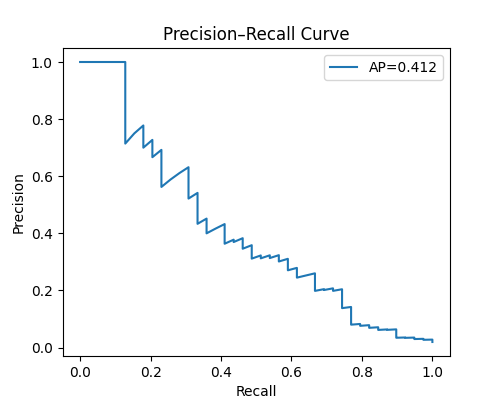
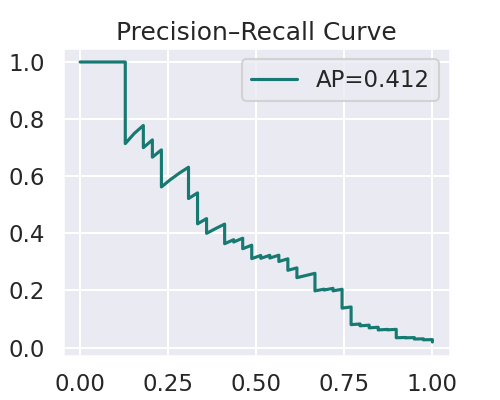
only readme file left may add additional features later

diff --git a/main.py b/main.py
@@ -1,6 +1,7 @@
 from sklearn.linear_model import LogisticRegression
+from sklearn.model_selection import RandomizedSearchCV
 from sklearn.preprocessing import StandardScaler
-from sklearn.metrics import roc_curve, roc_auc_score, precision_recall_curve, average_precision_score
+from sklearn.metrics import roc_curve, roc_auc_score, precision_recall_curve, average_precision_score,confusion_matrix , ConfusionMatrixDisplay
 from sklearn.pipeline import Pipeline
 import pandas as pd
 import numpy as np
@@ -8,7 +9,12 @@ import matplotlib.pyplot as plt
 import seaborn as sns 
 import os
 import auto_logger
+import gc
 
+sns.set_theme(
+    context="talk",   # larger fonts without shouting
+    palette="crest_r"
+)
 
 if __name__ == '__main__':
     auto_logger.setup_logging('main.py')
@@ -18,7 +24,7 @@ try:
 except:
     pass
 
-class LogisticCassifier:
+class LogisticClassifier:
     def __init__(self):
         self.y = None
         self.x = None
@@ -47,62 +53,153 @@ class LogisticCassifier:
         self.X_test  = self.X.iloc[idx:]
         self.y_test  = self.y.iloc[idx:]
 
-        print(*self.X.columns, sep='\n')
+        
     def train_run(self):
-        pipe = Pipeline(
-            steps=[
-                    ("scaler", StandardScaler()),
-                    ("clf", LogisticRegression(
-                        class_weight="balanced",
-                        solver="liblinear",
-                        max_iter=1000
-                        ))
-                    ]
-                )
-        pipe.fit(self.X_train,self.y_train)
-        self.y_pred = pipe.predict(self.X_test)
-        self.y_prob = pipe.predict_proba(self.X_test)[:, 1]
-        roc = roc_auc_score(self.y_test, self.y_prob)
-        print("ROC-AUC Score:", roc)
-        self.plot(self.y,self.y_pred,roc)
-    def plot(self,y,y_pred,roc):
-        #ROC-AUC Plot
+        pipe = Pipeline([
+            ("scaler", StandardScaler()),
+            ("clf", LogisticRegression(
+                solver="lbfgs",
+                class_weight="balanced",
+                max_iter=3000
+            ))
+        ])
+
+        param_dist = {
+             "clf__C": np.logspace(-3, 2, 50)
+        }
+        search = RandomizedSearchCV(
+            pipe,
+            param_distributions=param_dist,
+            n_iter=50,
+            scoring="roc_auc",
+            cv=5,
+            random_state=42,
+            n_jobs=-1,
+            verbose = 1,
+            error_score='raise'
+        )
+        search.fit(self.X_train,self.y_train)
+        self.y_prob = search.predict_proba(self.X_test)[:, 1]
+        self.roc = roc_auc_score(self.y_test, self.y_prob)
+        self.plot(self.roc)
+    def plot(self,roc):
+        
+        palette = sns.color_palette("crest", 10)
+
+        # Dashboard layout
+        layout = [["confusion", "roc"],
+                ["prc", "kde"]]
+
+        fig, axes = plt.subplot_mosaic(layout, figsize=(12, 10))
+
+        #ROC AUC plot
         fpr, tpr, _ = roc_curve(self.y_test, self.y_prob)
 
-        plt.figure(figsize=(5,5))
-        plt.plot(fpr, tpr, label=f"ROC (AUC={roc:.3f})")
-        plt.plot([0,1],[0,1],'--',color='gray')
-        plt.xlabel("False Positive Rate")
-        plt.ylabel("True Positive Rate")
-        plt.legend()
-        plt.title("ROC Curve – Time-Aware Validation")
-        plt.savefig(f'images/ROC-AUC_{self.filename}.png')
-        plt.show()
-        
-        #Risk Score Distribution
-        plt.figure(figsize=(6,4))
-        sns.kdeplot(self.y_prob[self.y_test == 0], label="No Fault", fill=True)
-        sns.kdeplot(self.y_prob[self.y_test == 1], label="Fault", fill=True)
-        plt.xlabel("Predicted Risk Score")
-        plt.title("Risk Score Distribution by Class")
-        plt.legend()
-        plt.savefig(f'images/Risk-Score-Distribution_{self.filename}.png')
-        plt.show()
-        
-        #Precision Recall curve
-        precision, recall, _ = precision_recall_curve(self.y_test, self.y_prob)
+        axes["roc"].plot(fpr, tpr, lw=2.5, label=f"AUC = {roc:.3f}")
+        axes["roc"].plot([0,1], [0,1], ls="--", color="gray", alpha=0.6)
+        axes["roc"].fill_between(fpr, tpr, alpha=0.15)
+
+        axes["roc"].set_xlabel("False Positive Rate")
+        axes["roc"].set_ylabel("True Positive Rate")
+        axes["roc"].set_title("ROC Curve")
+        axes["roc"].legend()
+
+        #KDE plot for Risk Score
+        sns.kdeplot(
+            self.y_prob[self.y_test == 0],
+            fill=True,
+            color=palette[1],
+            alpha=0.6,
+            linewidth=2,
+            label="No Failure",
+            ax=axes["kde"]
+        )
+
+        sns.kdeplot(
+            self.y_prob[self.y_test == 1],
+            fill=True,
+            color=palette[7],
+            alpha=0.6,
+            linewidth=2,
+            label="Failure",
+            ax=axes["kde"]
+        )
+
+        axes["kde"].set_xlabel("Predicted Risk Score")
+        axes["kde"].set_title("Risk Score Distribution")
+        axes["kde"].legend()
+
+        # Precision–Recall Curve
+        precision, recall, thresholds = precision_recall_curve(self.y_test, self.y_prob)
         ap = average_precision_score(self.y_test, self.y_prob)
 
-        plt.figure(figsize=(5,4))
-        plt.plot(recall, precision, label=f"AP={ap:.3f}")
-        plt.xlabel("Recall")
-        plt.ylabel("Precision")
-        plt.title("Precision–Recall Curve")
-        plt.legend()
-        plt.savefig(f'images/Precision-Recall-Curve_{self.filename}.png')
+        axes["prc"].plot(recall, precision, lw=2.5, label=f"AP = {ap:.3f}")
+        axes["prc"].set_xlabel("Recall")
+        axes["prc"].set_ylabel("Precision")
+        axes["prc"].set_title("Precision–Recall Curve")
+        axes["prc"].legend()
+
+        #Confusion Matrix
+        target_recall = 0.80
+        idx = np.where(recall >= target_recall)[0][-1]
+        threshold = thresholds[idx]
+
+        y_pred_thr = (self.y_prob >= threshold).astype(int)
+
+        cm = confusion_matrix(self.y_test, y_pred_thr)
+        tn, fp, fn, tp = cm.ravel()
+
+        cm_percent = cm / cm.sum() * 100
+        #labelling each cell of confusion matrix
+        labels = np.array([
+            [f"TN:{tn}\n({cm_percent[0,0]:.1f}%)", f"FP:{fp}\n({cm_percent[0,1]:.1f}%)"],
+            [f"FN:{fn}\n({cm_percent[1,0]:.1f}%)", f"TP:{tp}\n({cm_percent[1,1]:.1f}%)"]
+        ])
+
+        sns.heatmap(
+            cm / cm.max(),   # normalize colors
+            annot=labels,
+            fmt="",
+            cmap="crest",
+            linewidths=0.5,
+            linecolor="white",
+            xticklabels=["No Failure", "Failure"],
+            yticklabels=["No Failure", "Failure"],
+            alpha = 0.6,
+            cbar=False,
+            ax=axes["confusion"],
+        )
+
+        axes["confusion"].set_title(f"Confusion Matrix (threshold={threshold:.2f})")
+        axes["confusion"].set_xlabel("Predicted")
+        axes["confusion"].set_ylabel("Actual")
+        axes["confusion"].grid(False)
+
+        plt.tight_layout()
+        fig.savefig(f"images/Dashboard_{self.filename}.png", dpi=150)
         plt.show()
+        self.threshold = threshold
+        self.y_pred_thr = y_pred_thr
+        self.evaluate()
+    def evaluate(self):
+        tn, fp, fn, tp = confusion_matrix(self.y_test, self.y_pred_thr).ravel()
+        print("========== Model Features =========")
+        print(*self.X.columns, sep='\n')
+        print("\n=== Model Evaluation (Test Set) ===")
+        print(f"ROC-AUC score :{self.roc:.3f}")
+        print(f"Threshold used : {self.threshold:.3f}")
+        print(f"TP: {tp} | FP: {fp}")
+        print(f"FN: {fn} | TN: {tn}")
+
+        print("\nRates:")
+        print(f"Recall (TPR) : {tp / (tp + fn):.3f}")
+        print(f"Precision    : {tp / (tp + fp):.3f}")
+        print(f"False PosRate: {fp / (fp + tn):.3f}")
+        
+        print("====================================")
+        gc.collect()
 if __name__ == '__main__':
-    model = LogisticCassifier()
+    model = LogisticClassifier()
     model.dataset('ai4i2020.csv','Machine failure',['TWF','HDF','PWF','OSF','RNF','UDI','Product ID','Type'])
     model.train_run()
     
